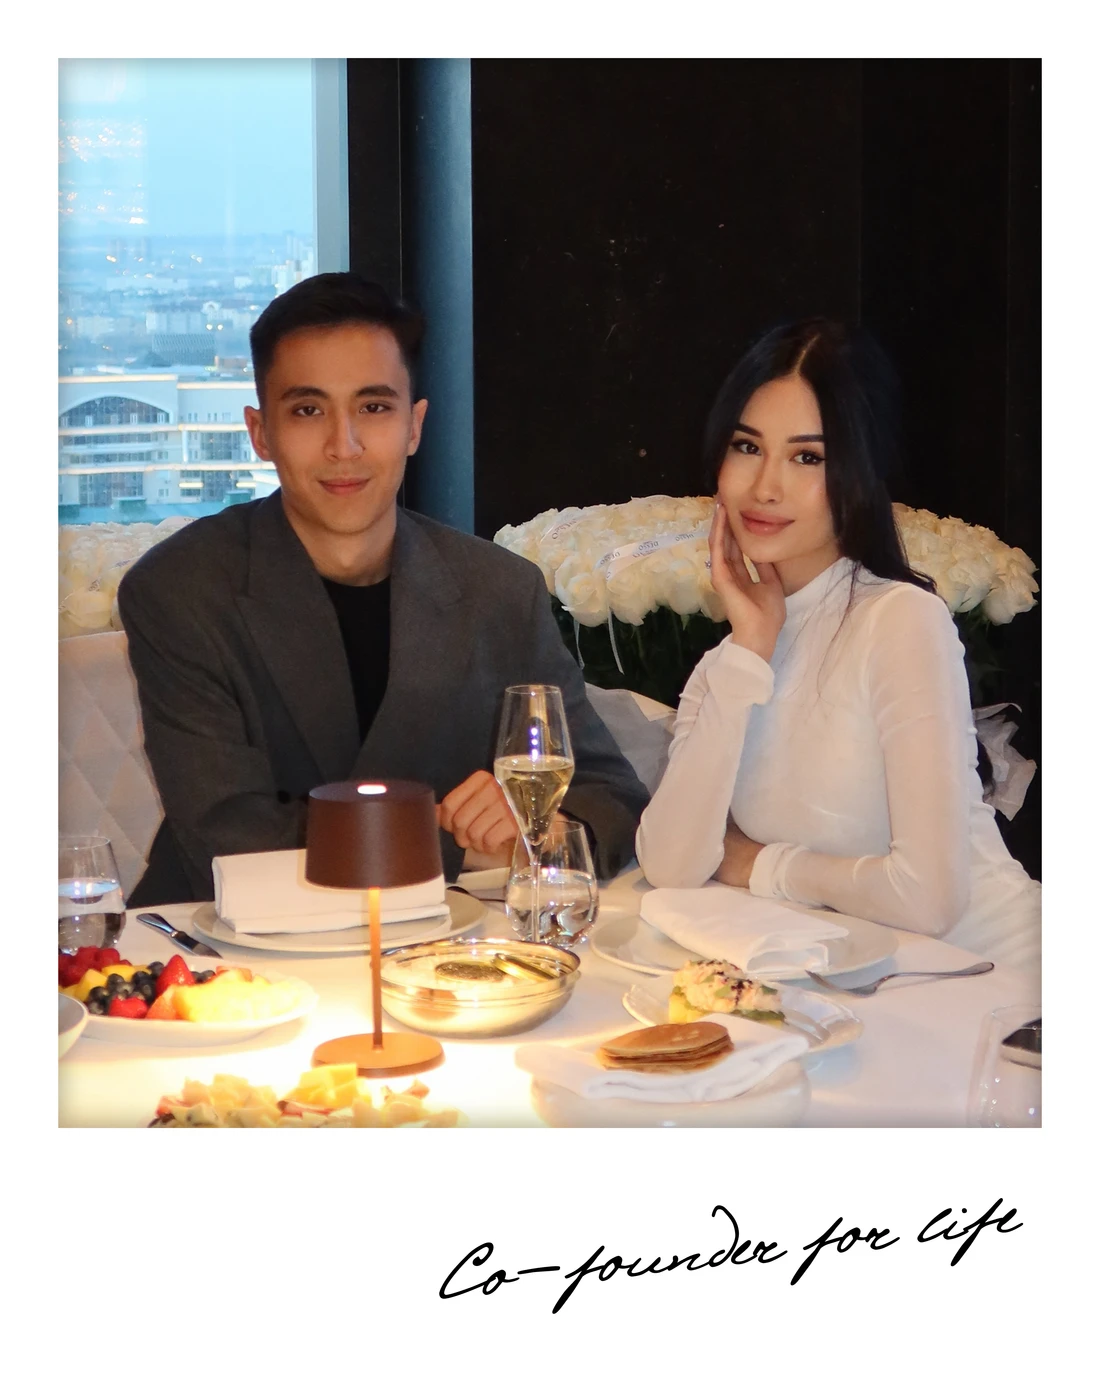
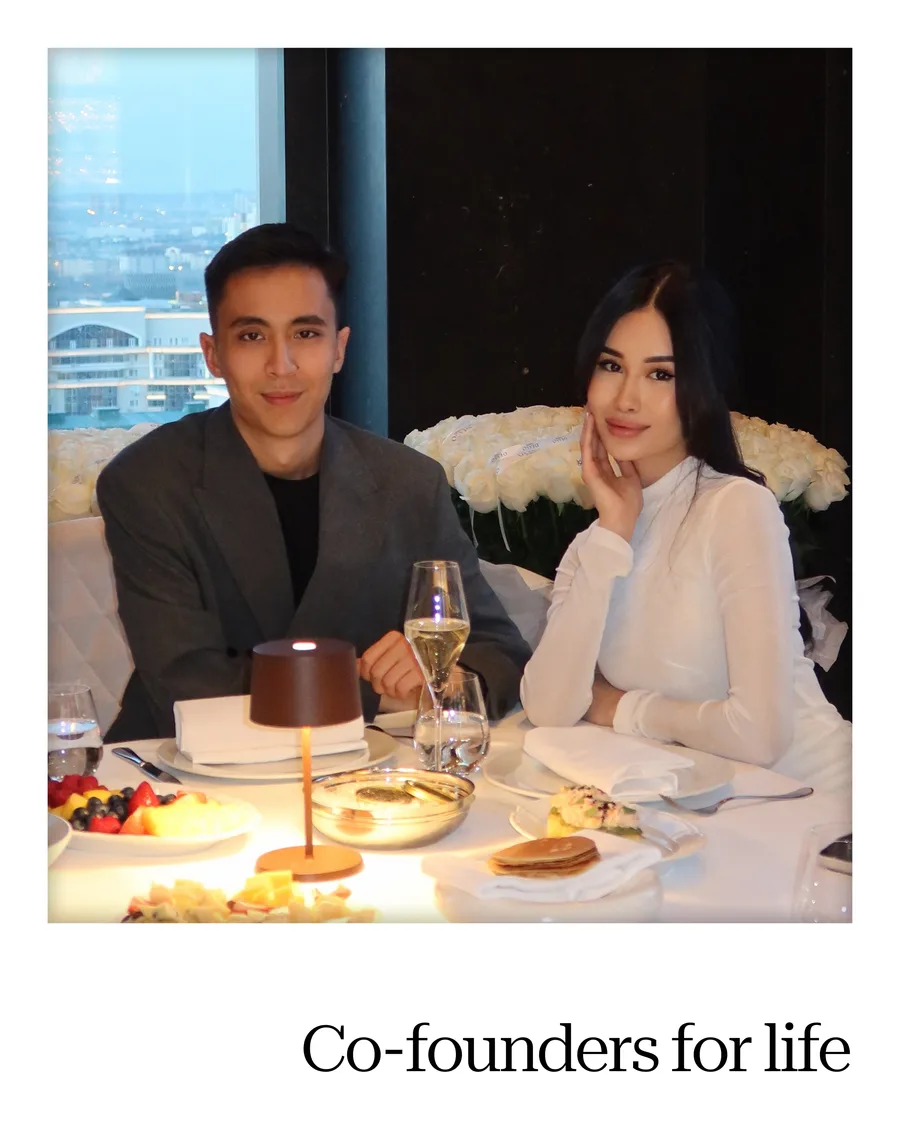
Generalize RSVP +1 guest, swap polaroid image, point RSVP to new endpoint
Reword RSVP options, add a conditional second-guest name field sent as plusOneName, fix Kazakh decline option, replace polaroid asset, and update VITE_RSVP_URL to the new Apps Script deployment.

Changed region(s): [[0.3422, 0.865, 0.9333, 0.9576]]

diff --git a/src/components/GuestForm.tsx b/src/components/GuestForm.tsx
@@ -11,12 +11,18 @@ type Status = 'idle' | 'submitting' | 'success' | 'error'
 export function GuestForm() {
   const { lang, t } = useLang()
   const [name, setName] = useState('')
+  const [plusOneName, setPlusOneName] = useState('')
   const [choice, setChoice] = useState(0)
   const [status, setStatus] = useState<Status>('idle')
+
+  const isPlusOne = choice === 1
 
   const handleSubmit = async (e: React.FormEvent) => {
     e.preventDefault()
     if (status === 'submitting') return
+
+    const trimmedName = name.trim()
+    const trimmedPlusOne = plusOneName.trim()
 
     setStatus('submitting')
     try {
@@ -25,7 +31,8 @@ export function GuestForm() {
         // text/plain avoids a CORS preflight so Apps Script still records the row.
         headers: { 'Content-Type': 'text/plain;charset=utf-8' },
         body: JSON.stringify({
-          name: name.trim(),
+          name: trimmedName,
+          plusOneName: isPlusOne ? trimmedPlusOne : '',
           attendance: ATTENDANCE_CODES[choice],
           lang,
         }),
@@ -83,6 +90,24 @@ export function GuestForm() {
                   </label>
                 ))}
               </div>
+
+              {isPlusOne && (
+                <div className="form__plus-one">
+                  <label className="form__label" htmlFor="plus-one-name">
+                    {t.formPlusOneLabel}
+                  </label>
+                  <input
+                    id="plus-one-name"
+                    className="form__input"
+                    type="text"
+                    value={plusOneName}
+                    onChange={(e) => setPlusOneName(e.target.value)}
+                    placeholder={t.formPlusOnePlaceholder}
+                    autoComplete="name"
+                    required
+                  />
+                </div>
+              )}
 
               {status === 'error' && (
                 <p className="form__error" role="alert">

diff --git a/src/components/GuestForm.css b/src/components/GuestForm.css
@@ -156,6 +156,31 @@
   color: #5c534c;
 }
 
+/* ---- Conditional +1 guest field ---- */
+.form__plus-one {
+  display: flex;
+  flex-direction: column;
+  margin-top: clamp(22px, 4.5vh, 36px);
+  animation: form-plus-one-in 0.34s ease;
+}
+
+@keyframes form-plus-one-in {
+  from {
+    opacity: 0;
+    transform: translateY(-6px);
+  }
+  to {
+    opacity: 1;
+    transform: translateY(0);
+  }
+}
+
+@media (prefers-reduced-motion: reduce) {
+  .form__plus-one {
+    animation: none;
+  }
+}
+
 /* ---- Submit ---- */
 .form__submit {
   align-self: center;

diff --git a/src/i18n.tsx b/src/i18n.tsx
@@ -36,6 +36,8 @@ export interface Translations {
   formNamePlaceholder: string
   formAttendQuestion: string
   formOptions: string[]
+  formPlusOneLabel: string
+  formPlusOnePlaceholder: string
   formSubmit: string
   formSubmitting: string
   formError: string
@@ -78,7 +80,9 @@ const STRINGS: Record<Lang, Translations> = {
     formNameLabel: 'Введите Имя и Фамилию',
     formNamePlaceholder: 'Имя и Фамилия',
     formAttendQuestion: 'Сможете ли вы присутствовать на торжестве?',
-    formOptions: ['Я приду', 'Приду с парой +1', 'Прийти не получится'],
+    formOptions: ['Приду один/одна', 'Придем вдвоем', 'Не приду'],
+    formPlusOneLabel: 'Имя и Фамилия второго гостя',
+    formPlusOnePlaceholder: 'Имя и Фамилия гостя',
     formSubmit: 'Отправить',
     formSubmitting: 'Отправляем…',
     formError: 'Не удалось отправить. Попробуйте ещё раз.',
@@ -119,7 +123,9 @@ const STRINGS: Record<Lang, Translations> = {
     formNameLabel: 'Аты-жөніңізді жазыңыз',
     formNamePlaceholder: 'Аты-жөні',
     formAttendQuestion: 'Тойға қатыса аласыз ба?',
-    formOptions: ['Келемін', 'Жұбыммен келемін +1', 'Келе алмаймын'],
+    formOptions: ['Жалғыз келемін', 'Екеуміз келеміз', 'Келе алмаймын'],
+    formPlusOneLabel: 'Екінші қонақтың аты-жөні',
+    formPlusOnePlaceholder: 'Қонақтың аты-жөні',
     formSubmit: 'Жіберу',
     formSubmitting: 'Жіберілуде…',
     formError: 'Жіберу мүмкін болмады. Қайталап көріңіз.',
@@ -160,7 +166,9 @@ const STRINGS: Record<Lang, Translations> = {
     formNameLabel: 'Enter your first and last name',
     formNamePlaceholder: 'First and last name',
     formAttendQuestion: 'Will you be able to attend the celebration?',
-    formOptions: ['I will come', 'Coming with a +1', "I can't make it"],
+    formOptions: ['Coming alone', 'Coming with a guest', 'Not coming'],
+    formPlusOneLabel: "Your guest's first and last name",
+    formPlusOnePlaceholder: "Guest's first and last name",
     formSubmit: 'Submit',
     formSubmitting: 'Sending…',
     formError: 'Could not send. Please try again.',